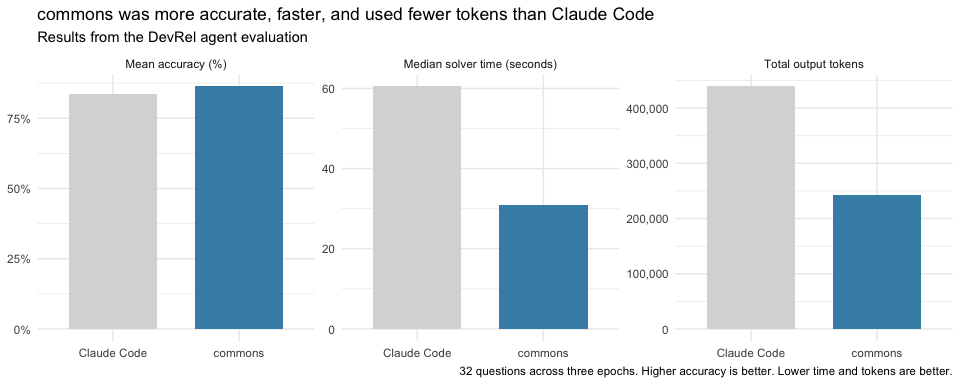
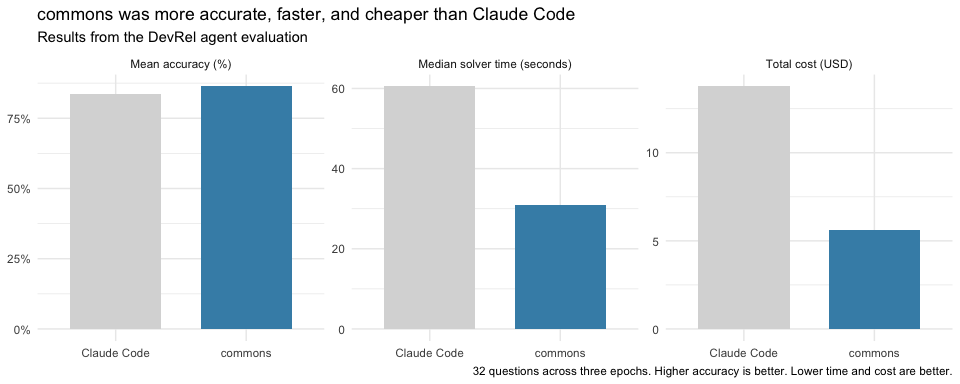
show evaluation cost in README

diff --git a/README.md b/README.md
@@ -107,10 +107,9 @@ Both have access to the same underlying data.
 
 In this evaluation, the commons agent had higher mean accuracy (86.3%
 vs. 83.5%), took less time to answer questions (a median of 31.0
-vs. 60.5 seconds), and used fewer output tokens (243,403 vs. 439,188
-total).
+vs. 60.5 seconds), and cost less (\$5.64 vs. \$13.76 total).
 
-<img src="pkg-r/man/figures/README-eval-plot-1.png" alt="Three bar charts compare commons with Claude Code. commons has higher mean accuracy, lower median solver time, and fewer total output tokens." width="100%" />
+<img src="pkg-r/man/figures/README-eval-plot-1.png" alt="Three bar charts compare commons with Claude Code. commons has higher mean accuracy, lower median solver time, and lower total cost." width="100%" />
 
 In the evaluation, both harnesses use Claude Sonnet 5 at medium effort.
 The evaluation runs each of 32 questions three times. Questions require

diff --git a/pkg-r/README.md b/pkg-r/README.md
@@ -96,10 +96,9 @@ Both have access to the same underlying data.
 
 In this evaluation, the commons agent had higher mean accuracy (86.3%
 vs. 83.5%), took less time to answer questions (a median of 31.0
-vs. 60.5 seconds), and used fewer output tokens (243,403 vs. 439,188
-total).
+vs. 60.5 seconds), and cost less (\$5.64 vs. \$13.76 total).
 
-<img src="man/figures/README-eval-plot-1.png" alt="Three bar charts compare commons with Claude Code. commons has higher mean accuracy, lower median solver time, and fewer total output tokens." width="100%" />
+<img src="man/figures/README-eval-plot-1.png" alt="Three bar charts compare commons with Claude Code. commons has higher mean accuracy, lower median solver time, and lower total cost." width="100%" />
 
 In the evaluation, both harnesses use Claude Sonnet 5 at medium effort.
 The evaluation runs each of 32 questions three times. Questions require
